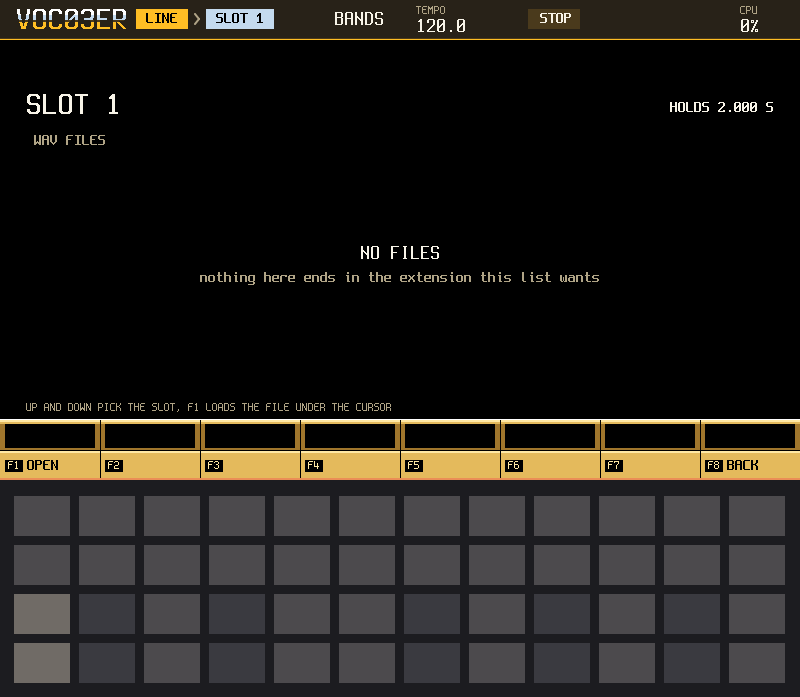
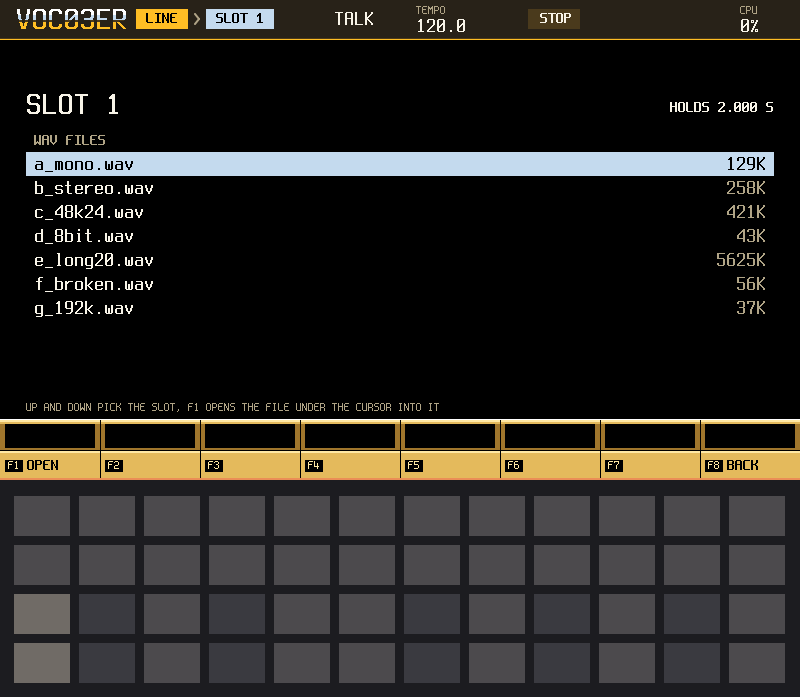
fix(sample-edit): F8 SPEAKS is SAMPLE's F2 tap itself; SAMPLE LOAD's ask lights F1 CONFIRM; small texts; the manual's pictures retaken
SAMPLE EDIT's F8 calls SampleScreen::speaks_tap (which now returns the note it
said) instead of a copy of the route change: one route, one set of refusals, one
note on both screens. A test taps F8 on SAMPLE EDIT and F2 on SAMPLE from the
same route and compares SPEAKS and SOUNDS after each tap.

SAMPLE LOAD: F1 reads CONFIRM and stays lit while "REPLACES SLOT n: F1 CONFIRMS"
asks (it was drawn dim); the hint says F1 OPENS, as the key reads. SAMPLE REC:
the stopped transport's note is two lines (as one it ran to the display's edge).
HELP's "PARAMS: FOUR PAGES" on six screens is "PARAMS: THE MODE'S PAGES" (PM1).
The unreleased UX3 changelog line names the present PADS ONLY wording.
docs/manual/img: seventeen pictures taken again from manual_screens.txt.

Remote CI (slot o3-voc03er, snapshot c5931caa212a): host 61/61, mk66 4/4,
0 warnings, 0 __aeabi_d, .text 605,192 B, flash image 618,496 B.
Unit check owed: F8 on SAMPLE EDIT and F2 on SAMPLE by hand, the CONFIRM key on
SAMPLE LOAD with a slot that holds audio.

diff --git a/app/src/sample_edit_screen.cpp b/app/src/sample_edit_screen.cpp
@@ -1079,53 +1079,14 @@ void SampleEditScreen::zoom_refresh(unsigned slot, std::uint32_t lo, std::uint32
 
 // ---- F8: the slot speaks ---------------------------------------------------------------------------------------------------------------
 
-// The slot becomes the route's SPEAKS source, or (when it is already) the route goes back to LIVE. The same route change as SAMPLE's SIDE key (set_side): the
-// side the slot leaves is freed first, so it is never on both.
+// The slot becomes the route's SPEAKS source, or (when it is already) the route goes back to LIVE: SAMPLE's F2 tap itself (SampleScreen::speaks_tap), so the
+// two keys cannot route differently (an empty slot refuses, a slot that SOUNDS is freed to the synth first, a mode that cannot hear SPEAKS says so). The
+// note it says is shown on this screen's line too.
 void SampleEditScreen::toggle_speaks(app::Context& ctx) noexcept {
-  if (perform_ == nullptr) {
-    return;
+  const char* const said = sample_->speaks_tap(ctx);
+  if (said != nullptr) {
+    say(ctx, said);
   }
-  const unsigned slot = sample_->slot() & 3u;
-  const route::Route cur = perform_->route_now(ctx);
-  const bool off = sm::side_of(cur, slot) == sm::Side::Speaks;
-  const sm::SidePlan p = sm::plan_side(cur, off ? sm::Side::None : sm::Side::Speaks, slot, sample_->status(slot).length == 0u);
-  if (p.refused) {
-    say(ctx, p.why);
-    return;
-  }
-  if (!p.change) {
-    return;
-  }
-  const std::uint8_t v = sm::slot_value(slot);
-  route::Route mid = cur;
-  if (cur.speaks == v && p.to.speaks != v) {
-    mid.speaks = p.to.speaks;
-    perform_->apply_route(ctx, route::Side::Speaks, cur, mid);
-  }
-  if (cur.sounds == v && p.to.sounds != v) {
-    const route::Route from = mid;
-    mid.sounds = p.to.sounds;
-    perform_->apply_route(ctx, route::Side::Sounds, from, mid);
-  }
-  if (p.to.speaks == v && mid.speaks != v) {
-    const route::Route from = mid;
-    mid.speaks = v;
-    perform_->apply_route(ctx, route::Side::Speaks, from, mid);
-  }
-  if (p.to.sounds == v && mid.sounds != v) {
-    const route::Route from = mid;
-    mid.sounds = v;
-    perform_->apply_route(ctx, route::Side::Sounds, from, mid);
-  }
-  g_se.note_buf[0] = '\0';
-  if (off) {
-    cat(g_se.note_buf, sizeof g_se.note_buf, "LIVE SPEAKS AGAIN");
-  } else {
-    cat(g_se.note_buf, sizeof g_se.note_buf, "SLOT ");
-    cat_uint(g_se.note_buf, sizeof g_se.note_buf, slot + 1u);
-    cat(g_se.note_buf, sizeof g_se.note_buf, " SPEAKS");
-  }
-  say(ctx, g_se.note_buf);
 }
 
 // ---- the latch: SHIFT + a lower pad holds its note --------------------------------------------------------------------------------------
@@ -1489,7 +1450,7 @@ void SampleEditScreen::help(const app::Context& ctx, app::Help& h) const noexcep
       {Button::Delete, "REMOVES THE PICKED CUT", nullptr},
       {Button::Copy, "COPY TO THE NEXT EMPTY SLOT", nullptr},
       {Button::Shift, "COARSE; + UP/DOWN: SLOT", nullptr},
-      {Button::Params, "PARAMS: FOUR PAGES", nullptr},
+      {Button::Params, "PARAMS: THE MODE'S PAGES", nullptr},
       {Button::Performance, "PERFORM: THE HOME SCREEN", nullptr},
       {Button::Play, "START OR STOP THE BAR", nullptr},
       {Button::Master, "MASTER", nullptr},

diff --git a/tests/sample_edit_test.cpp b/tests/sample_edit_test.cpp
@@ -2114,6 +2114,46 @@ TEST_CASE("sample edit: F8 makes the slot speak and a second F8 gives LIVE back;
   CHECK(h.runtime().frame_failures() == 0u);
 }
 
+TEST_CASE("sample edit: F8 is SAMPLE's F2 tap: from the same route both keys leave the same SPEAKS and SOUNDS, and a slot that SOUNDS is freed first") {
+  Rig rig;
+  sim::Harness& h = *rig.h;
+  rig.take();
+  const dsp::UnitId voc = voc_unit(h);
+  const float slot = static_cast<float>(sm::slot_value(0));
+  const auto car_src = [&] { return h.engine().param(voc, Vocoder::CarSrc); };
+  // The same start for both keys: LIVE speaks and SLOT 1 sounds (the route is what the unit holds).
+  const auto start = [&] {
+    (void)h.engine().set_param(voc, Vocoder::ModSrc, 0.0f);
+    (void)h.engine().set_param(voc, Vocoder::CarSrc, slot);
+    h.run_ms(60);
+    REQUIRE(mod_src(h) == 0.0f);
+    REQUIRE(car_src() == slot);
+  };
+  float mod[2][2] = {};
+  float car[2][2] = {};
+  const app::Button screen[2] = {app::Button::SampleEdit, app::Button::SamplePlay};
+  const app::Button key[2] = {app::Button::F8, app::Button::F2};
+  for (unsigned k = 0; k < 2; ++k) {
+    tap(h, screen[k]);
+    h.run_ms(60);
+    start();
+    for (unsigned t = 0; t < 2; ++t) {  // the first tap makes the slot speak, the second gives LIVE back
+      tap(h, key[k]);
+      h.run_ms(60);
+      mod[k][t] = mod_src(h);
+      car[k][t] = car_src();
+    }
+  }
+  CHECK(mod[0][0] == slot);  // SAMPLE EDIT's F8: the slot speaks ...
+  CHECK(car[0][0] != slot);  // ... and no longer sounds (never on both)
+  CHECK(mod[0][1] == 0.0f);  // again: LIVE speaks
+  for (unsigned t = 0; t < 2; ++t) {
+    CHECK(mod[0][t] == mod[1][t]);
+    CHECK(car[0][t] == car[1][t]);
+  }
+  CHECK(h.runtime().frame_failures() == 0u);
+}
+
 TEST_CASE("sample edit: SHIFT + a lower pad latches its note: the LED shows it, the same pad lets go, another moves it, leaving releases it") {
   Rig rig;
   sim::Harness& h = *rig.h;

diff --git a/app/src/sample_load_screen.cpp b/app/src/sample_load_screen.cpp
@@ -510,10 +510,10 @@ void SampleLoadScreen::leds(app::Context& ctx, app::PadLeds& leds) noexcept {
 }
 
 void SampleLoadScreen::soft_keys(app::Context&, app::SoftKeys& out) noexcept {
-  out.label[0] = "OPEN";
+  out.label[0] = g_sl.asking ? "CONFIRM" : "OPEN";  // the ask ("REPLACES SLOT n: F1 CONFIRMS") is answered on F1, so F1 stays lit and says so
   out.label[7] = g_sl.stage == kReading ? "CANCEL" : "BACK";
   out.hot = 0;
-  out.dim = static_cast<std::uint8_t>(0x7Eu | (g_sl.stage != kBrowse || g_sl.asking ? 0x01u : 0u) | (g_sl.stage != kBrowse && g_sl.stage != kReading ? 0x80u : 0u));
+  out.dim = static_cast<std::uint8_t>(0x7Eu | (g_sl.stage != kBrowse ? 0x01u : 0u) | (g_sl.stage != kBrowse && g_sl.stage != kReading ? 0x80u : 0u));
 }
 
 void SampleLoadScreen::help(const app::Context& ctx, app::Help& h) const noexcept {
@@ -522,7 +522,7 @@ void SampleLoadScreen::help(const app::Context& ctx, app::Help& h) const noexcep
       {Button::Down, "SLOT AFTER", nullptr},
       {Button::Left, "PAGE UP THE LIST", nullptr},
       {Button::Right, "PAGE DOWN THE LIST", nullptr},
-      {Button::Params, "PARAMS: FOUR PAGES", nullptr},
+      {Button::Params, "PARAMS: THE MODE'S PAGES", nullptr},
       {Button::Performance, "PERFORM: THE HOME SCREEN", nullptr},
       {Button::Play, "START OR STOP THE BAR", nullptr},
       {Button::SampleLoad, "THIS SCREEN", nullptr},
@@ -651,7 +651,7 @@ void SampleLoadScreen::draw(app::Context& ctx, ui::Renderer& r, const ui::Rect&)
       r.text(kX, ny + 14, g_sl.tail, Color::Accent, Face::Label);
     }
   } else {
-    r.text(kX, kNoteY + 4, "UP AND DOWN PICK THE SLOT, F1 LOADS THE FILE UNDER THE CURSOR", Color::TextDim, Face::Micro);
+    r.text(kX, kNoteY + 4, "UP AND DOWN PICK THE SLOT, F1 OPENS THE FILE UNDER THE CURSOR INTO IT", Color::TextDim, Face::Micro);
   }
 }
 

diff --git a/app/src/sample_rec_screen.cpp b/app/src/sample_rec_screen.cpp
@@ -481,7 +481,7 @@ void SampleRecScreen::help(const app::Context& ctx, app::Help& h) const noexcept
       {Button::Down, "SLOT AFTER", nullptr},
       {Button::Left, "SHORTER LENGTH, HOLD REPEATS", nullptr},
       {Button::Right, "LONGER LENGTH, HOLD REPEATS", nullptr},
-      {Button::Params, "PARAMS: FOUR PAGES", nullptr},
+      {Button::Params, "PARAMS: THE MODE'S PAGES", nullptr},
       {Button::Performance, "PERFORM: THE HOME SCREEN", nullptr},
       {Button::Play, "START OR STOP THE BAR", nullptr},
       {Button::Master, "MASTER", nullptr},
@@ -641,7 +641,10 @@ void SampleRecScreen::draw(app::Context& ctx, ui::Renderer& r, const ui::Rect&) 
   cat(buf, sizeof buf, ".");
   cat_uint(buf, sizeof buf, bb.beat);
   r.text(560, 84, buf, e.playing() ? Color::Play : Color::TextDim, Face::Display);
-  r.text(560, 124, e.playing() ? "TRANSPORT RUNS" : "TRANSPORT STOPPED: A TAKE STARTS AT ONCE", Color::TextDim, Face::Micro);
+  r.text(560, 124, e.playing() ? "TRANSPORT RUNS" : "TRANSPORT STOPPED", Color::TextDim, Face::Micro);
+  if (!e.playing()) {  // on a line of its own: as one line it ran to the display's right edge
+    r.text(560, 136, "A TAKE STARTS AT ONCE", Color::TextDim, Face::Micro);
+  }
 
   const char* word = "EMPTY";
   Color ink = Color::TextDim;

diff --git a/app/src/sample_screen.cpp b/app/src/sample_screen.cpp
@@ -528,9 +528,18 @@ void SampleScreen::set_speaks(app::Context& ctx, int delta, bool tap) noexcept {
   }
 }
 
-void SampleScreen::speaks_tap(app::Context& ctx) noexcept {
+const char* SampleScreen::speaks_tap(app::Context& ctx) noexcept {
+  const char* const before = note_;
+  const std::uint64_t until = note_until_;
+  note_ = nullptr;
   set_speaks(ctx, 1, true);
+  const char* const said = note_;
+  if (said == nullptr) {  // nothing said: the line that was up stays
+    note_ = before;
+    note_until_ = until;
+  }
   ctx.redraw();
+  return said;
 }
 
 // `delta` is the encoder's detents, or +-1 for a tap; a tap wraps where a detent stops at the end.
@@ -795,7 +804,7 @@ void SampleScreen::help(const app::Context&, app::Help& h) const noexcept {
       {Button::Left, "F VALUE DOWN, HOLD REPEATS", nullptr},
       {Button::Right, "F VALUE UP, HOLD REPEATS", nullptr},
       {Button::Shift, "F2 SLICE CH, F3 OCTAVE", nullptr},
-      {Button::Params, "PARAMS: FOUR PAGES", nullptr},
+      {Button::Params, "PARAMS: THE MODE'S PAGES", nullptr},
       {Button::Performance, "PERFORM: THE HOME SCREEN", nullptr},
       {Button::Play, "START OR STOP THE BAR", nullptr},
       {Button::Master, "MASTER", nullptr},

diff --git a/app/src/sample_screen.h b/app/src/sample_screen.h
@@ -95,8 +95,10 @@ class SampleScreen final : public o3sdk::app::Screen {
   void fire_slice(o3sdk::app::Context& ctx, unsigned pad) noexcept;
   void release_slice(o3sdk::app::Context& ctx, unsigned pad) noexcept { release_pad(ctx, pad); }
 
-  // What a tap on F2 does for the selected slot (it speaks; again: SPEAKS back to LIVE), through the same function. SAMPLE EDIT's F8 calls it.
-  void speaks_tap(o3sdk::app::Context& ctx) noexcept;
+  // What a tap on F2 does for the selected slot (it speaks; again: SPEAKS back to LIVE), through the same function. SAMPLE EDIT's F8 calls it, so the two
+  // keys cannot route differently. Returns the note the tap said (a string that outlives the call: SAMPLE EDIT shows it on its own line), or nullptr
+  // when it said nothing.
+  const char* speaks_tap(o3sdk::app::Context& ctx) noexcept;
 
   // The side's ink of a slot (SPEAKS, SOUNDS, or the neutral rule colour): the tint of its overview picture.
   o3sdk::ui::Rgb slot_ink(o3sdk::app::Context& ctx, unsigned slot) const noexcept;

diff --git a/app/src/sample_edit_screen.h b/app/src/sample_edit_screen.h
@@ -123,7 +123,7 @@ class SampleEditScreen final : public o3sdk::app::Screen {
   void zoom_refresh(unsigned slot, std::uint32_t lo, std::uint32_t span) noexcept;
   std::uint32_t view_span() const noexcept;
   std::uint32_t view_lo() const noexcept;
-  // F8: the slot speaks (the vocoder's modulator) or goes back to LIVE; an empty slot refuses.
+  // F8: the slot speaks (the vocoder's modulator) or goes back to LIVE; an empty slot refuses. SAMPLE's F2 tap, called (SampleScreen::speaks_tap).
   void toggle_speaks(o3sdk::app::Context& ctx) noexcept;
   // The latch: SHIFT + a lower pad holds its note or chord (pads 24..47); the plain presses and the releases of the others pass to SAMPLE's pads.
   bool latch_input(o3sdk::app::Context& ctx, const o3sdk::app::Input& in) noexcept;

diff --git a/app/src/perform_screen.cpp b/app/src/perform_screen.cpp
@@ -2035,7 +2035,7 @@ const char* plays_help(const strip::StripDef* d, pads::Plays p) noexcept {
 // on this screen has a row, and tests/perform_screen_test.cpp holds that. The legend carries the groups of the page in force only.
 void PerformScreen::help(const app::Context& ctx, app::Help& h) const noexcept {
   static constexpr app::HelpButton kButtons[] = {
-      {Button::Params, "PARAMS: FOUR PAGES", nullptr},
+      {Button::Params, "PARAMS: THE MODE'S PAGES", nullptr},
       {Button::Performance, "AGAIN: FREES THE ENCODER", nullptr},
       {Button::Play, "START OR STOP THE BAR", nullptr},
       {Button::Master, "MASTER", nullptr},

diff --git a/app/src/pattern_screen.cpp b/app/src/pattern_screen.cpp
@@ -919,7 +919,7 @@ void PatternScreen::help(const app::Context& ctx, app::Help& h) const noexcept {
       {Button::Copy, "COPY THE STEP", "COPY THE PATTERN"},
       {Button::Insert, "INSERT THE COPIED STEP", "PASTE THE COPIED PATTERN"},
       {Button::Delete, "EMPTY THE STEP", "EMPTY THE PATTERN (F1)"},
-      {Button::Params, "PARAMS: FOUR PAGES", nullptr},
+      {Button::Params, "PARAMS: THE MODE'S PAGES", nullptr},
       {Button::Performance, "PERFORM: THE HOME SCREEN", nullptr},
       {Button::Play, "START OR STOP THE BAR", nullptr},
       {Button::Master, "MASTER", nullptr},

diff --git a/docs/CHANGELOG.md b/docs/CHANGELOG.md
@@ -21,7 +21,7 @@
   name says NAME THE PROJECT FIRST; SAVE says "AUDIO NOT SAVED: F5" when a slot holds audio the project's WAVs do not carry (a re-record of the same length is noticed through a per-slot flag set by a take or a load and cleared by F5); NEW says its slots keep their audio, on the
   ask, after it and on the screen; the pads are unlit and F6 and F7 are blank; the unsaved list in the MANUAL names TRACT's Close, Slide, Accent and Mix; `p.swing` is no longer set on capture (the format byte stays).
   (4) *Help:* SAMPLE REC's SHIFT gives coarser gain steps, LENGTH reads "FREE, 1, 2, 4 OR 8 BARS", SONG F3 is LOOP. (5) *SAMPLE LOAD:* the refusal names what to stop (take, loop or slice), the list says when it is capped
-  at 64, and a load into a slot on no side says NO SIDE: F2 SIDE ON SAMPLE, on a second line when the note would not fit. (6) *SAMPLE REC:* an AFTER the slot cannot follow is said when REC arms, not after the take. (7) *SONG:* DELETE takes a second tap on the
+  at 64, and a load into a slot that neither speaks nor sounds says PADS ONLY: F2 SPEAKS ON SAMPLE (NO SIDE: F2 SIDE ON SAMPLE when UX3 was built), on a second line when the note would not fit. (6) *SAMPLE REC:* an AFTER the slot cannot follow is said when REC arms, not after the take. (7) *SONG:* DELETE takes a second tap on the
   same row within two seconds; PLAY while the chain runs stops it and the line says so (while a MIDI master is followed it says "STOP ASKED OF THE MIDI MASTER": the stop is only a request; the next PLAY runs it from the cursor); F8 is labelled PERFORM. (8) *SAMPLE:* a slice pad past the count says "n SLICES", NO FREE
   READER names its cause (RECORDING or ARMED), a slot on NONE says whether its loop speaks too, and a length change that resets edited cuts says so. Verified and dropped: F8 BACK on FILE and LOAD, CANCELLED on DELETE while arming and the LENGTH fit check already existed; the stale-WAV
   removal on F5 needs a kit file delete that does not exist (the MANUAL says the old numbered WAVs stay and how to remove them); SAMPLE EDIT's CLR CUTS move is lane 2's. Scenarios `ux3_sample_cue.txt`, `ux3_rec_after.txt`,
@@ -158,6 +158,7 @@
 
 ### Fixed
 
+- **One SPEAKS, and small texts that said the wrong thing.** (1) SAMPLE EDIT's F8 SPEAKS is SAMPLE's F2 tap itself (`SampleScreen::speaks_tap`), not a copy of it: the same route change, the same refusals and the same note on both screens (a slot that SOUNDS is freed to the synth first, a mode that cannot hear SPEAKS says so). (2) SAMPLE LOAD: while it asks "REPLACES SLOT n: F1 CONFIRMS" F1 reads CONFIRM and stays lit (it was drawn dim), and the hint says F1 OPENS the file, as the key reads. (3) SAMPLE REC: with the transport stopped the right-hand note is two lines (TRANSPORT STOPPED / A TAKE STARTS AT ONCE); as one line it ran to the display's edge. (4) HELP's button list said "PARAMS: FOUR PAGES" on six screens; since PM1 the pages are the mode's (one, three or four), and it reads "PARAMS: THE MODE'S PAGES". (5) The manual's pictures are taken again from `manual_screens.txt` (seventeen of them had fallen behind the screens). Unit check owed: F8 on SAMPLE EDIT and F2 on SAMPLE by hand.
 - **RP1: PERFORM's F6 ROW and F7 PLAYS agree.** F7 always acts on the row F6 shows (a held pad no longer takes it), and a tap opens a list of
   what that row can play, with group headings and the value in force marked; UP, DOWN or the encoder move, SHIFT + encoder jumps a group, F7 or
   F1 takes, F8 backs out. F6 steps on its first tap, UP is the row above and DOWN the row below (they were swapped), and the chosen row's name

diff --git a/docs/UI-DESIGN.md b/docs/UI-DESIGN.md
@@ -160,7 +160,7 @@ of the top rows auditions that slice through the vocoder, and a pad of the botto
 
 - F1 CUT EVEN (OFF, 8, 16, 24 equal parts; turning re-cuts) · F2 CUT BEATS (OFF, 4, 8, 16 a bar, on the bars the take was recorded on; dimmed for
   a loaded WAV) · F3 CUT HITS (0 to 100: the sensitivity of the onset detector, 0 off; the cuts follow it as it turns; the first tap from 0 lands at 50, then by 10, and 100 wraps to 0) · F4 START and F5 END (the
-  trim) · F6 NORMALISE (action, F1 confirms) · F7 SAVE WAV (`Samples/slotN_NNN.wav` by the kit's `save_wav`, the strip shows the progress) · F8 SPEAKS (the slot speaks, or back to LIVE) · SHIFT + F8
+  trim) · F6 NORMALISE (action, F1 confirms) · F7 SAVE WAV (`Samples/slotN_NNN.wav` by the kit's `save_wav`, the strip shows the progress) · F8 SPEAKS (the slot speaks, or back to LIVE: SAMPLE's F2 tap itself, `SampleScreen::speaks_tap`, with its note) · SHIFT + F8
   CLR CUTS. COPY copies the slot to the next empty one (F1 confirms).
 - F1 to F3 and SHIFT + F8 replace the table and say so before the value is taken ("REPLACES 5 CUTS"; the key waiting for its second press reads CONFIRM); INSERT and DELETE edit it. A cut lands on a zero crossing
   within 64 samples when one is there.
@@ -191,7 +191,7 @@ at the top, UP / DOWN change it), F8 BACK. PCM of 8 to 32 bits or 32-bit float, 
 the converted sound (a longer file gives its first 16 s and the strip says "FIRST 16.000 S LOADED, FILE HAS 20.000 S, 48K 24B TO 44.1K 16B"; a converted
 file ends its note with what was done). The listing is `Apps/o3_voc03er/`, because the kit loads from the app's folder only (section 9);
 the card as a USB disk (Config, CARD AS DISK) is how files get there from a computer. A slot that records or sounds refuses ("STOP THE SLOT FIRST"); a slot
-that holds a sample asks "REPLACES SLOT n: F1 CONFIRMS" and any other key cancels ("NOT REPLACED"). Another coding, more than two channels, a rate outside 22.05 to 96 kHz or a broken
+that holds a sample asks "REPLACES SLOT n: F1 CONFIRMS" (F1 reads CONFIRM while it asks) and any other key cancels ("NOT REPLACED"). Another coding, more than two channels, a rate outside 22.05 to 96 kHz or a broken
 one is refused on the strip with its reason ("NEEDS 22 TO 96 KHZ", ...), with the slot as it was. The conversion (`wav_convert.h`: a Kaiser-windowed sinc, 16 zero crossings
 a side, 64 phases, cut at 0.86 of the lower Nyquist; `sample_load_logic.h`: the header parser and the sink) is streamed with a budget of 80,000 taps per screen
 tick, into a 1.41 MB int16 stage in the SDRAM; the 16-bit 44.1 kHz case skips the resampler.
